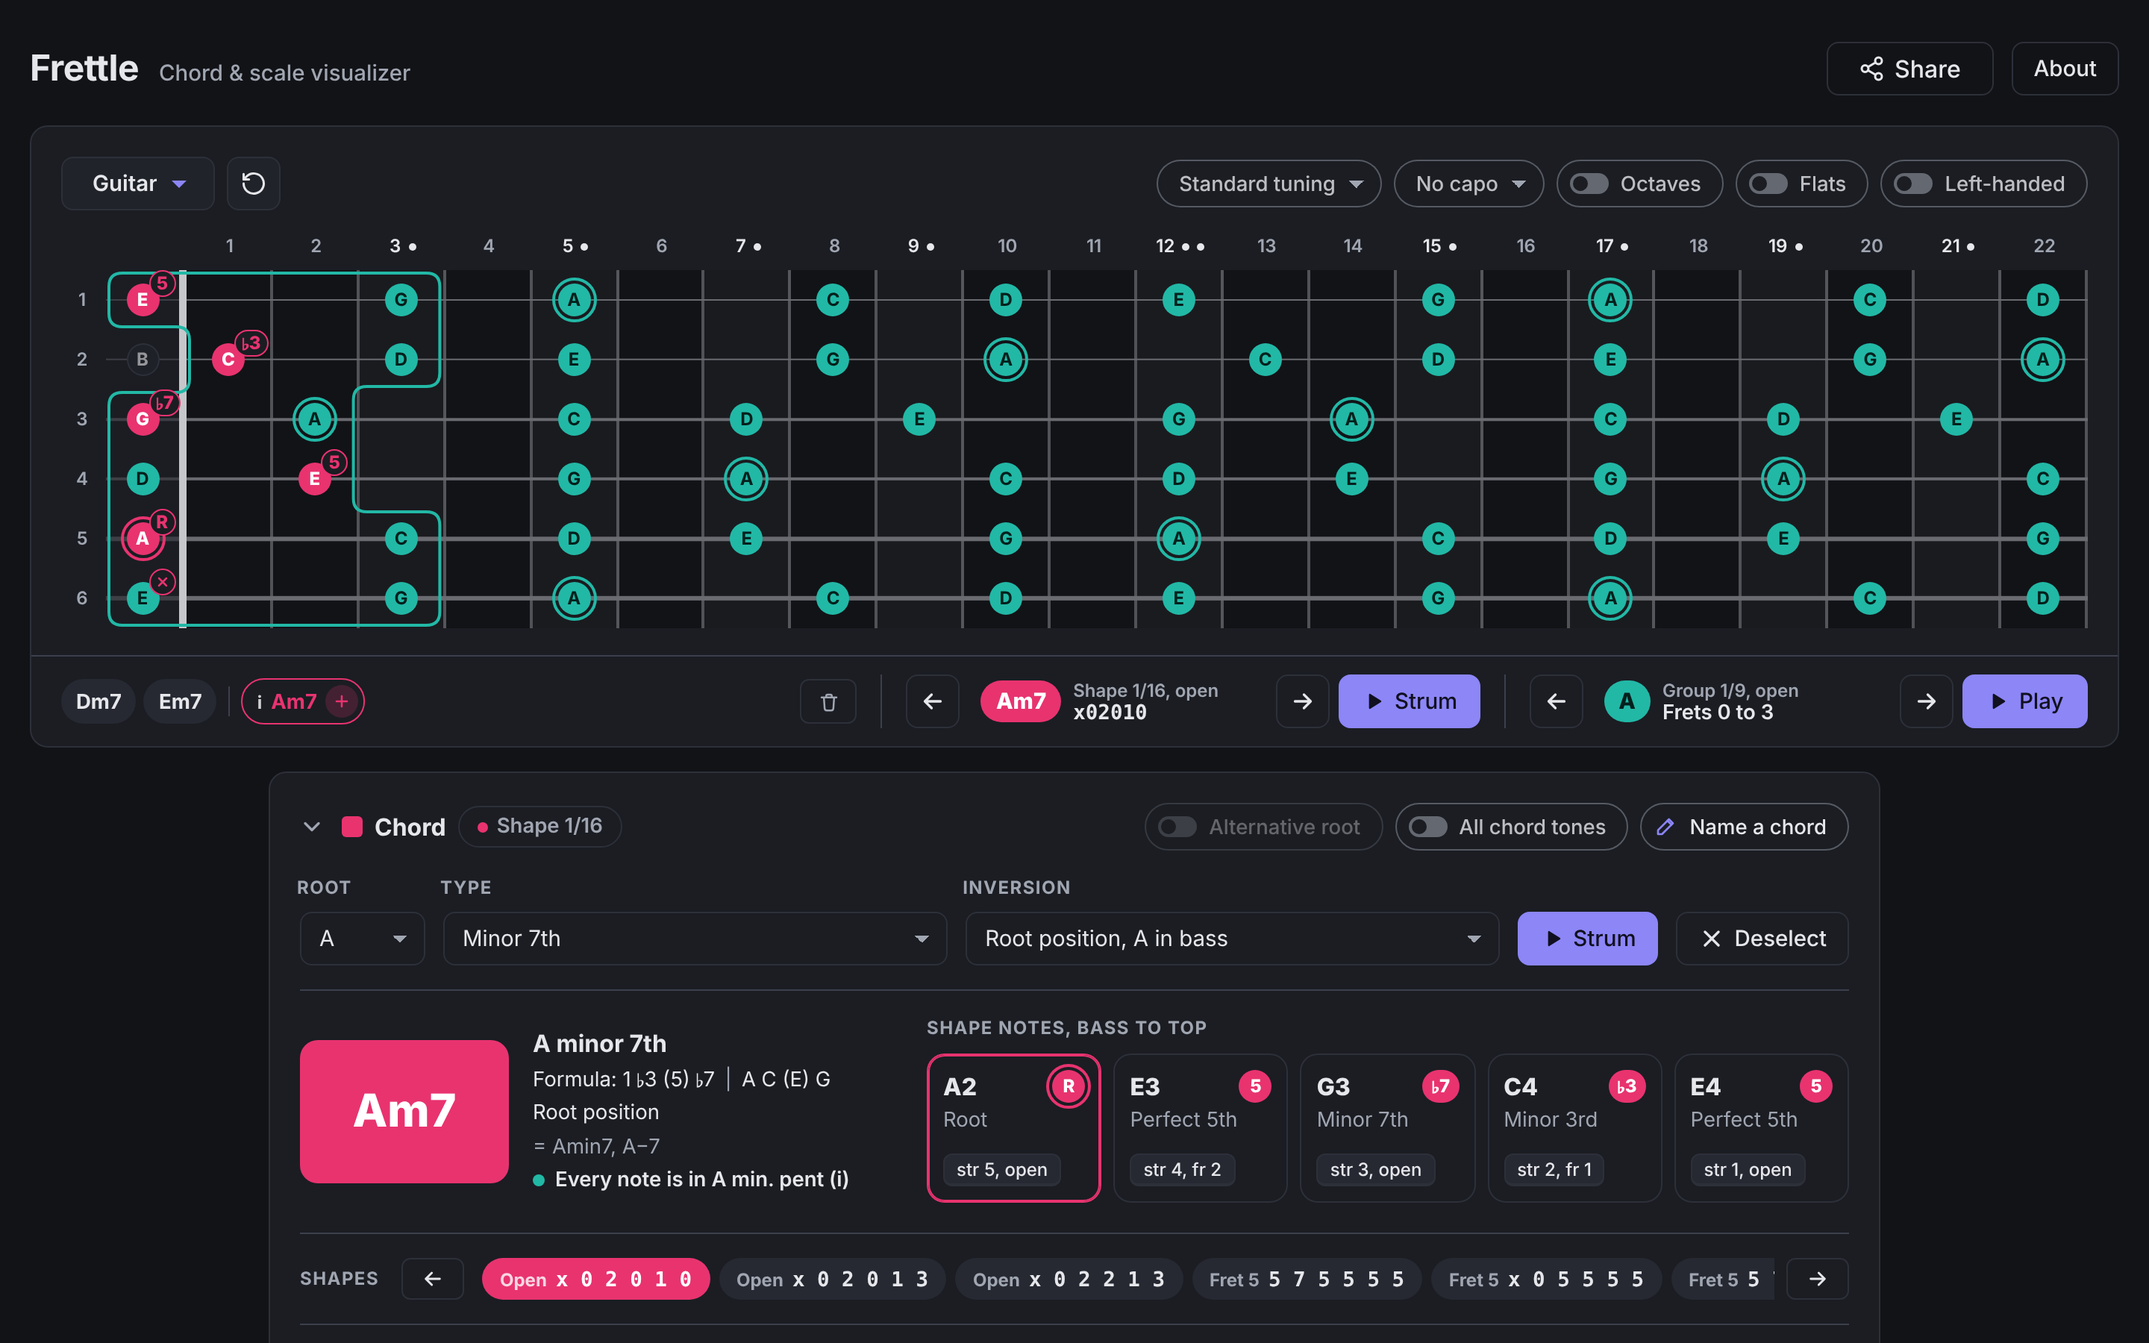
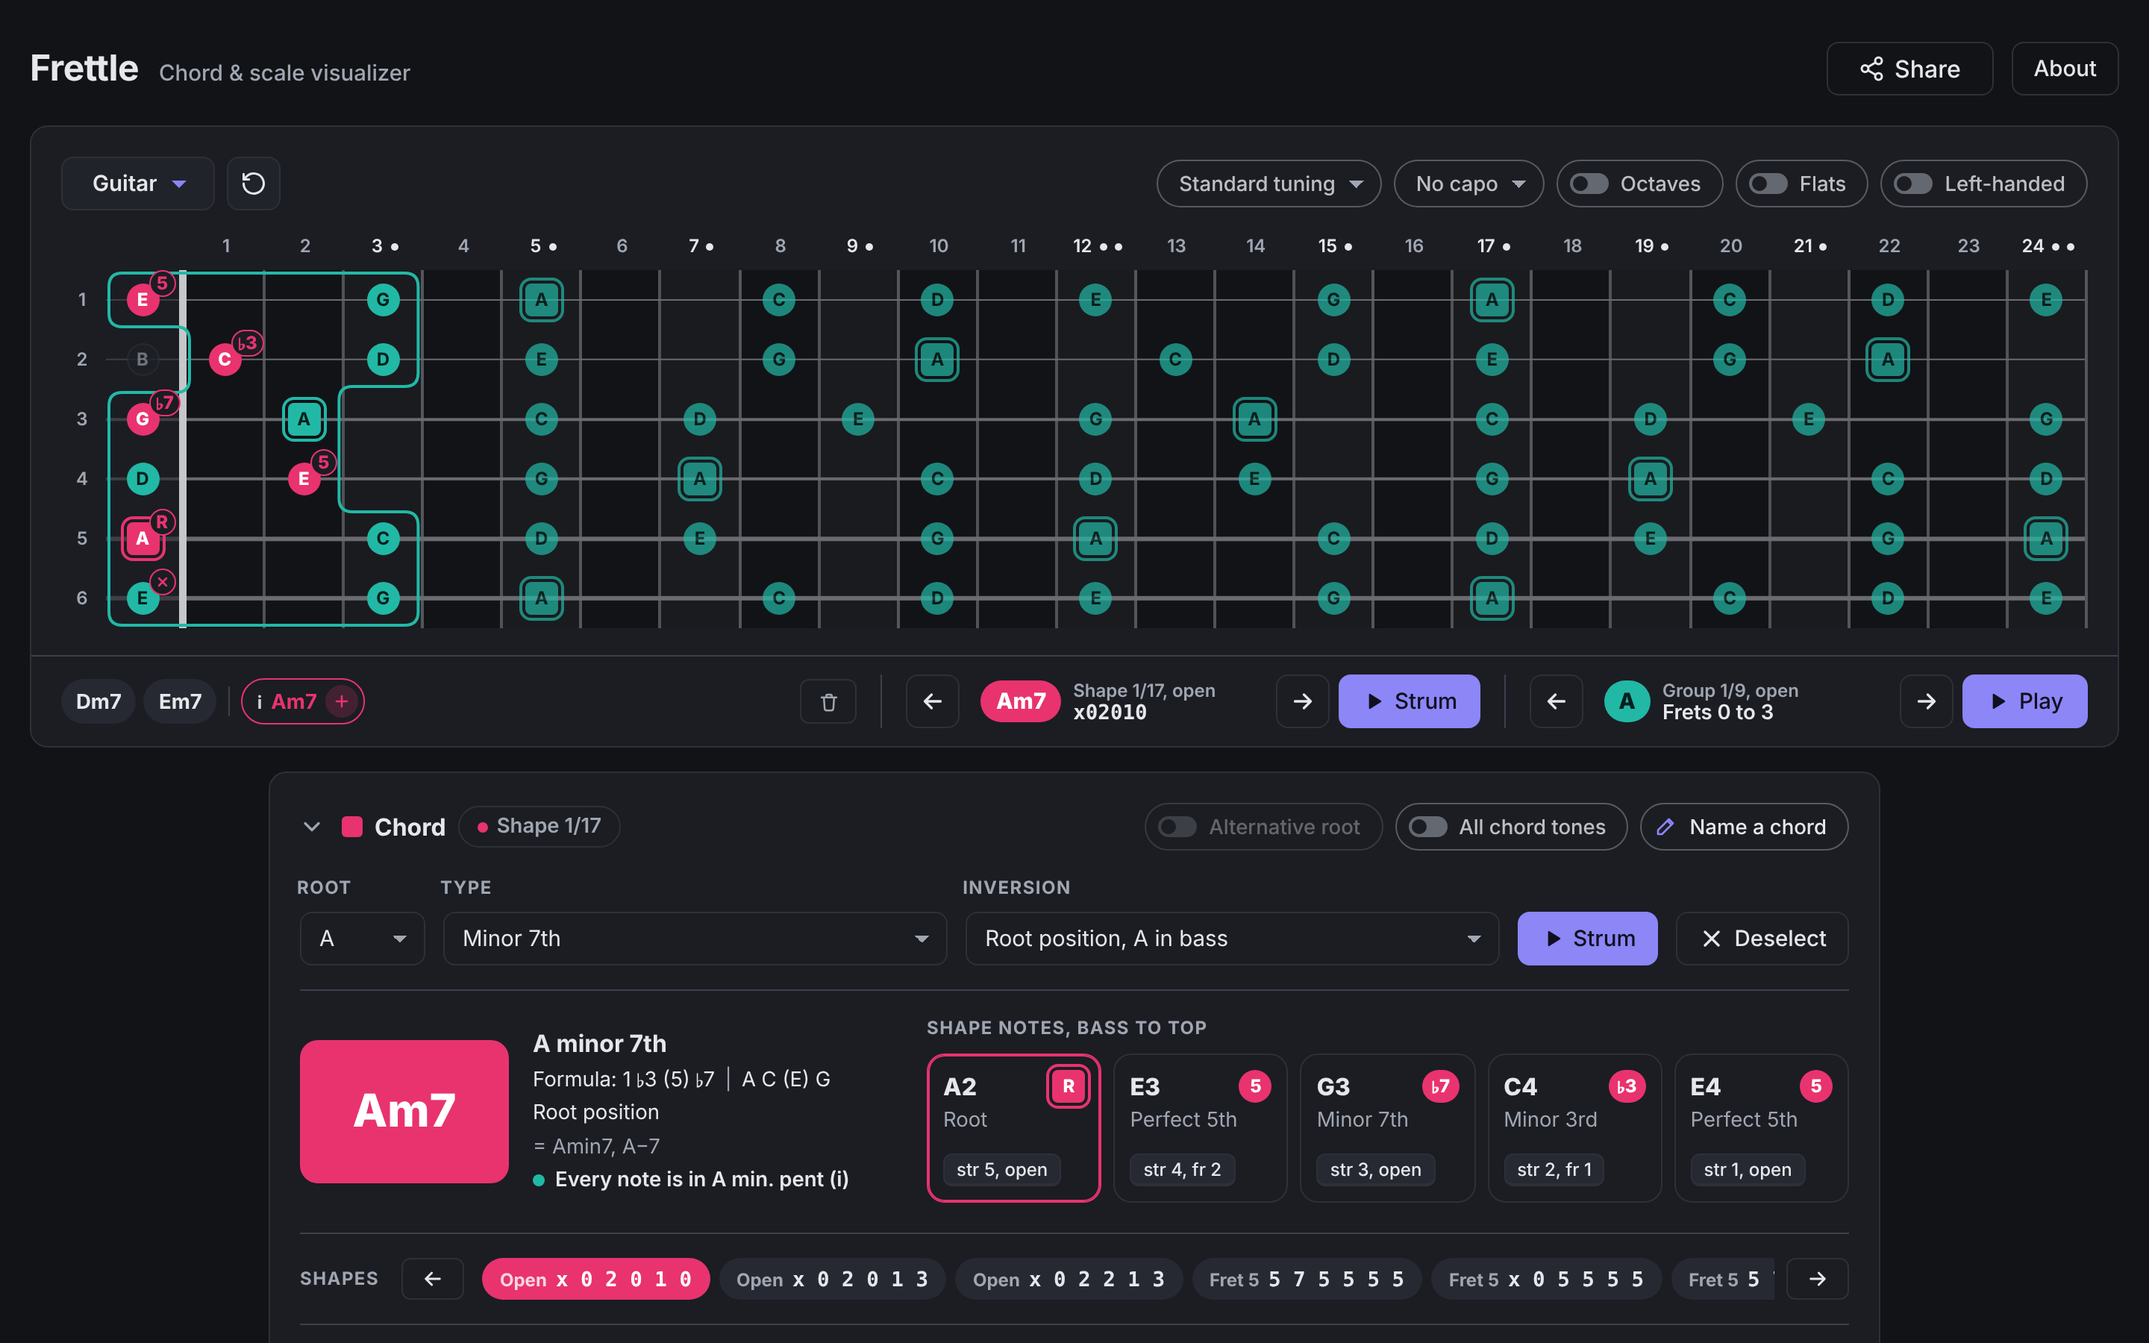
feat: use rounded squares to emphasize roots + dim notes outside group + fixed empty neck scrollbar + push guitar/bass/mandolin to 24 frets + octave mandola tuning

diff --git a/web/script.js b/web/script.js
@@ -44,15 +44,15 @@ const SHARP_NAMES = ['C', 'C♯', 'D', 'D♯', 'E', 'F', 'F♯', 'G', 'G♯', 'A
 const PIANO_LOW = 21;
 const PIANO_KEYS = 88;
 const INSTRUMENTS = [
-  { id: 'guitar', family: 'Guitar', name: 'Guitar', short: 'Guitar', strings: [40, 45, 50, 55, 59, 64], frets: 22 },
+  { id: 'guitar', family: 'Guitar', name: 'Guitar', short: 'Guitar', strings: [40, 45, 50, 55, 59, 64], frets: 24 },
   { id: 'guitar7', family: 'Guitar', name: '7-string Guitar', short: '7-string', strings: [35, 40, 45, 50, 55, 59, 64], frets: 24 },
-  { id: 'bass', family: 'Bass', name: 'Bass', short: 'Bass', strings: [28, 33, 38, 43], frets: 20 },
+  { id: 'bass', family: 'Bass', name: 'Bass', short: 'Bass', strings: [28, 33, 38, 43], frets: 24 },
   { id: 'bass5', family: 'Bass', name: '5-string Bass', short: '5-string', strings: [23, 28, 33, 38, 43], frets: 24 },
   { id: 'ukulele', family: 'Ukulele', name: 'Ukulele', short: 'Ukulele', strings: [67, 60, 64, 69], frets: 18, smallFrets: true },
   { id: 'baritone', family: 'Ukulele', name: 'Baritone Ukulele', short: 'Baritone', strings: [50, 55, 59, 64], frets: 18, smallFrets: true },
   { id: 'piano', family: 'Piano', name: 'Piano', short: 'Piano', strings: [], frets: 0, piano: true },
-  { id: 'mandolin', family: 'Mandolin', name: 'Mandolin', short: 'Mandolin', strings: [55, 62, 69, 76], frets: 20, span: 5, smallFrets: true, fifths: true },
-  { id: 'mandola', family: 'Mandolin', name: 'Mandola', short: 'Mandola', strings: [48, 55, 62, 69], frets: 20, span: 5, smallFrets: true, fifths: true },
+  { id: 'mandolin', family: 'Mandolin', name: 'Mandolin', short: 'Mandolin', strings: [55, 62, 69, 76], frets: 24, span: 5, smallFrets: true, fifths: true },
+  { id: 'mandola', family: 'Mandolin', name: 'Mandola', short: 'Mandola', strings: [48, 55, 62, 69], frets: 24, span: 5, smallFrets: true, fifths: true },
   { id: 'banjo', family: 'Banjo', name: 'Banjo', short: 'Banjo', strings: [67, 50, 55, 59, 62], starts: [5, 0, 0, 0, 0], frets: 22,
     dots: { single: [3, 5, 7, 10, 15, 17, 19, 22], double: [12] } },
 ];
@@ -79,6 +79,10 @@ const TUNINGS = {
     { id: 'open-d', name: 'Open D', strings: [38, 45, 50, 54, 57, 62] },
     { id: 'open-e', name: 'Open E', strings: [40, 47, 52, 56, 59, 64] },
     { id: 'open-c', name: 'Open C', strings: [36, 43, 48, 55, 60, 64] },
+  ],
+  mandola: [
+    { id: 'standard', name: 'Standard', strings: [48, 55, 62, 69] },
+    { id: 'octave', name: 'Octave', strings: [43, 50, 57, 64] },   // the octave mandola, G2 D3 A3 E4: a mandolin's notes, an octave down
   ],
   ukulele: [
     { id: 'standard', name: 'Standard (high G)', strings: [67, 60, 64, 69] },
@@ -5534,7 +5538,7 @@ function renderNeck(ch, sc) {
     labelAt = (s) => `grid-row:1;grid-column:${s + 2}`;
     capoAt = `grid-row:${c + 2};grid-column:${short + 2} / span ${n - short}`;
   } else {
-    els.neck.style.gridTemplateColumns = `var(--label-w) var(--open-w) repeat(${N}, minmax(var(--cell-w), 1fr))`;
+    els.neck.style.gridTemplateColumns = `var(--label-w) var(--open-w) repeat(${N}, minmax(var(--cell-min, var(--cell-w)), 1fr))`;   // (--cell-min: see fitScroll)
     cellAt = (s, f) => `grid-row:${n - s + 1};grid-column:${f + 2}`;
     rulerAt = (f) => `grid-row:1;grid-column:${f + 2}`;
     labelAt = (s) => `grid-row:${n - s + 1};grid-column:1`;
@@ -5577,6 +5581,10 @@ function renderNeck(ch, sc) {
   }
   ui.groups = groups;
   ui.group = pickGroup(groups);
+  // The group shown: its cells (string:fret); every other note but the
+  // chord's a little dimmer
+  const grouped = new Set();
+  for (const { s, a, b } of groups[ui.group] ? groups[ui.group].bars : []) for (let f = a; f <= b; f++) grouped.add(`${s}:${f}`);
 
   // One octave number per shaded band, on its first cell you can play: the
   // lowest-listed string in the band, at its lowest fret not behind the capo
@@ -5691,6 +5699,10 @@ function renderNeck(ch, sc) {
         // spike): the strings' notes are always shown
         cls += onlyScale && f !== nut(s) ? ' plain out' : sc ? ' plain off' : ' plain';
       }
+      // (the chord's own notes never; a note not in the scale is never one of
+      // the group's, even within its outline; a string the shape does not
+      // play: its note, not its ×, see .ungrouped)
+      if (grouped.size && !/ (chord|ghost)\b/.test(cls) && (cls.includes(' scale') ? !grouped.has(key) : cls.includes(' off') || cls.includes(' named'))) cls += ' ungrouped';
       const text = noteText(n);
       let title = `${pitchText(midi, n)}${deg ? ` (${degreeName(deg)})` : ''}, ${where}`;
       if (cls.includes(' off-key')) title += `, not in ${scaleInText(sc)}`;
@@ -5701,7 +5713,7 @@ function renderNeck(ch, sc) {
       }
       const octave = octaveOf(s, f);
       const cellCls = `cell ${f === 0 ? 'open' : 'fret'}${mark ? ' mark' : ''}${octave % 2 ? ' o-alt' : ''}` +
-        `${f < nut(s) ? ' behind' : ''}${c && f === nut(s) ? ' capo' : ''}${start && f === start ? ' string-start' : ''}`;
+        `${f < nut(s) ? ' behind' : ''}${c && f === nut(s) ? ' capo' : ''}${start && f === start ? ' string-start' : ''}${f === N ? ' end' : ''}`;
       const inner = cls.includes(' mute') && !cls.includes(' named') ? MUTE_ICON : tx(text);
       if (cls.includes(' named')) badge = MUTE_BADGE;
       const octTag = octaveLabels.has(key) ? `<span class="oct" title="Octave ${octave}">${tx(String(octave))}</span>` : '';
@@ -5735,6 +5747,7 @@ function renderNeck(ch, sc) {
   html.push(stripHtml(vertical, n, c, short, starts));
   els.neck.innerHTML = html.join('');
   drawGroups();
+  fitScroll();
   placeStrip();
 }
 
@@ -5799,6 +5812,36 @@ function renderPiano(ch, sc) {
   }
   els.neck.style.setProperty('--whites', white);
   els.neck.innerHTML = html.join('');
+  fitScroll();
+}
+
+/* Wide screens: a neck (or keyboard) only a little wider than its panel
+   would scroll a few pixels, which looks like a mistake. It is made wider
+   then, its frets (or white keys) a little wider, the notes as they are,
+   to scroll at least SCROLL_MIN: a scroll that shows something. Measured
+   at its own width first (each fret at least --cell-w, each white key
+   36px), from the frets' (keys') widths as they are, whatever makes it
+   scroll. On every draw and whenever the neck or its panel changes size. */
+const SCROLL_MIN = 102;   // px: two frets (2 × --cell-w)
+function fitScroll() {
+  const neck = els.neck;
+  const scroller = neck.parentElement;
+  neck.style.removeProperty('--cell-min');
+  neck.style.removeProperty('--wk-min');
+  if (!neck.classList.contains('horizontal')) return;
+  const over = scroller.scrollWidth - scroller.clientWidth;
+  if (over <= 0 || over >= SCROLL_MIN) return;
+  if (neck.classList.contains('piano')) {
+    const whites = neck.querySelectorAll('.key.white');
+    const wk = whites[0].getBoundingClientRect().width;
+    neck.style.setProperty('--wk-min', `${wk + (SCROLL_MIN - over) / whites.length}px`);
+  } else {
+    const cells = neck.querySelectorAll('.cell.fret:not(.strip-cell)');
+    const last = cells[cells.length - 1];   // (the last fret's: its number, the frets' count; 1fr each, so all as wide)
+    if (!last) return;
+    const cell = last.getBoundingClientRect().width;
+    neck.style.setProperty('--cell-min', `${cell + (SCROLL_MIN - over) / Number(last.dataset.f)}px`);
+  }
 }
 
 
@@ -5872,8 +5915,8 @@ function drawGroups() {
   if (!layer) return;
   const group = (ui.groups || [])[ui.group];
   const box = els.neck.getBoundingClientRect();
-  layer.setAttribute('width', box.width);
-  layer.setAttribute('height', box.height);
+  // (as big as the neck by its style, never a fraction of a pixel past it: no
+  // scroll of its own, see fitScroll)
   layer.setAttribute('viewBox', `0 0 ${box.width} ${box.height}`);
   if (!group) { layer.innerHTML = ''; return; }
 
@@ -6621,7 +6664,8 @@ function init() {
   if (wideMedia.addEventListener) wideMedia.addEventListener('change', relayout);
   else wideMedia.addListener(relayout);
   if (window.ResizeObserver) {
-    new ResizeObserver(() => { drawGroups(); queueStrip(); }).observe(els.neck);   // keep group outlines on their cells
+    new ResizeObserver(() => { drawGroups(); fitScroll(); queueStrip(); }).observe(els.neck);   // keep group outlines on their cells
+    new ResizeObserver(() => fitScroll()).observe(els.neck.parentElement);   // (the panel narrower or wider: see fitScroll)
   }
   // The strip follows the page (phones) and the neck's own scroll (wide screens)
   window.addEventListener('scroll', queueStrip, { passive: true });

diff --git a/web/styles.css b/web/styles.css
@@ -70,6 +70,7 @@
   --r-lg: 12px;
   --r-xl: 18px;
   --r-pill: 999px;
+  --r-root: 4px;         /* a root's note: a rounded square, every other note a round pill */
   --control-h: 42px;     /* touch-sized on phones */
   --root-w: 84px;        /* the Root menus */
   --chip-h: 32px;
@@ -81,7 +82,7 @@
   --label-w: 28px;       /* fret numbers column */
   --row-h: 42px;         /* one fret: room for a root's ring inside a group outline */
   --ruler-row: 24px;     /* string numbers row */
-  --cell-w: 46px;        /* horizontal neck only */
+  --cell-w: 51px;        /* a fret's least width, horizontal neck only (see fitScroll) */
   --open-w: 54px;
   --scroll-gap: 10px;    /* space between scrolling content and its scrollbar */
   --fret-wire: color-mix(in srgb, var(--pk-grey) 50%, transparent);
@@ -807,6 +808,7 @@ button, a { scroll-margin: 6px; }
 /* Vertical: strings go down, fret wires and the nut run across */
 .neck.vertical .cell::before { top: 0; bottom: 0; left: 50%; width: var(--sw, 1px); transform: translateX(-50%); }
 .neck.vertical .cell.fret:not(.string-start)::before { bottom: -2px; }   /* over its fret wire: strings in front of the frets */
+.neck.vertical .cell.fret.end:not(.string-start)::before { bottom: 0; }   /* (the last fret: ending at its wire, as across) */
 .neck.vertical .cell.fret { border-bottom: 2px solid var(--fret-wire); }
 .neck.vertical .cell.open { border-bottom: 5px solid var(--nut); }
 .neck.vertical .ruler { justify-content: flex-end; padding-inline-end: 8px; }
@@ -816,6 +818,7 @@ button, a { scroll-margin: 6px; }
 /* Horizontal: strings go across, fret wires and the nut run down */
 .neck.horizontal .cell::before { left: 0; right: 0; top: 50%; height: var(--sw, 1px); transform: translateY(-50%); }
 .neck.horizontal .cell.fret:not(.string-start)::before { inset-inline-end: -2px; }   /* (as across) */
+.neck.horizontal .cell.fret.end:not(.string-start)::before { inset-inline-end: 0; }   /* (the last fret: the string ends at its wire, not past the neck's end, which would scroll it a pixel or two) */
 .neck.horizontal .cell.fret { border-inline-end: 2px solid var(--fret-wire); }
 .neck.horizontal .cell.open { border-inline-end: 5px solid var(--nut); }
 .neck.horizontal .ruler { align-self: start; height: 24px; }
@@ -887,7 +890,8 @@ button, a { scroll-margin: 6px; }
 
 /* Note pills. Every note is shown at full strength. Scale notes are teal,
    chord-shape notes pink with their interval, other chord tones (optional)
-   pink outlines. A ring around a pill always means "root". */
+   pink outlines. A rounded square with a ring around it always means
+   "root" (on the neck, the piano, the chord's notes and the scale's). */
 .note {
   position: relative;
   z-index: 2;
@@ -905,10 +909,11 @@ button, a { scroll-margin: 6px; }
   white-space: nowrap;
 }
 .note.scale { background: var(--scale); color: var(--scale-text); box-shadow: none; }
-.note.scale-root { outline: 2px solid var(--scale); outline-offset: 2px; }
+.note.scale-root { border-radius: var(--r-root); outline: 2px solid var(--scale); outline-offset: 2px; }
 .note.ghost { background: var(--bg); color: var(--chord); box-shadow: inset 0 0 0 1px color-mix(in srgb, var(--chord) 55%, transparent); }
 .note.chord { background: var(--chord); color: var(--chord-text); box-shadow: none; font-weight: 800; }
-.note.chord.root { outline: 2px solid var(--chord); outline-offset: 2px; }
+.note.chord.root { border-radius: var(--r-root); outline: 2px solid var(--chord); outline-offset: 2px; }
+.note.ghost.root { border-radius: var(--r-root); }   /* (another chord tone: square too, without the ring of the shape's own) */
 /* Chord notes show their name; the interval (R, 3, 5, ♭7…) sits in a small
    badge on the pill's top-right corner, held by its left end: a longer one
    (♭♭7, ♯11) grows away from the note rather than over it */
@@ -951,6 +956,24 @@ button, a { scroll-margin: 6px; }
 .note.mute.named.scale { background: var(--scale); color: var(--scale-text); box-shadow: none; }   /* (a string not played, its open note in the scale: a scale note, with its ×) */
 .note.mute.named.ghost { background: var(--bg); color: var(--chord); box-shadow: inset 0 0 0 1px color-mix(in srgb, var(--chord) 55%, transparent); }   /* (... a chord tone, All chord tones on: as the others, see .note.ghost) */
 .note.out { visibility: hidden; }
+/* With a scale group shown: every note not in it a little dimmer (the
+   scale's past it, and those not in the scale), so the group stands out;
+   the chord's notes stay as they are. A string the shape does not play:
+   its note dimmer (its fill, text and edge at 70%, as the others' 0.7),
+   its pink × as it is */
+.note.ungrouped { opacity: 0.7; }
+.note.mute.named.ungrouped {
+  opacity: 1;
+  background: color-mix(in srgb, color-mix(in srgb, var(--kbd-bg) 65%, var(--bg)) 70%, transparent);
+  color: color-mix(in srgb, color-mix(in srgb, var(--text) 62%, var(--bg)) 70%, transparent);
+  box-shadow: inset 0 0 0 1px color-mix(in srgb, var(--border) 70%, transparent);
+}
+.note.mute.named.scale.ungrouped {
+  background: color-mix(in srgb, var(--scale) 70%, transparent);
+  color: color-mix(in srgb, var(--scale-text) 70%, transparent);
+  box-shadow: none;
+  outline-color: color-mix(in srgb, var(--scale) 70%, transparent);
+}
 .note.out.peek { visibility: visible; animation: peek 1400ms ease-out forwards; }   /* shown a moment, then a short fade */
 @keyframes peek {
   0% { opacity: 1; transform: scale(1.18); }
@@ -1003,7 +1026,7 @@ button, a { scroll-margin: 6px; }
 .oct-label.mid { color: var(--text); }   /* middle C's octave */
 /* Wide screens: the keys across */
 .neck.piano.horizontal {
-  --wk: max(36px, calc(100cqw / var(--whites)));   /* a white key's width: 36px (room for two neighbours' notes, a root's ring round one), more only where the panel is wider than the 52 keys need */
+  --wk: max(var(--wk-min, 36px), calc(100cqw / var(--whites)));   /* a white key's width: 36px (room for two neighbours' notes, a root's ring round one), more only where the panel is wider than the 52 keys need (or a little more to scroll more than a few pixels: --wk-min, see fitScroll) */
   --bk: calc(var(--wk) * 0.6);
   --kl: 170px;  /* a white key's length */
   width: calc(var(--whites) * var(--wk));
@@ -1125,6 +1148,8 @@ body.piano #tglScaleGroups { display: none; }
   position: absolute;
   left: 0;
   top: 0;
+  width: 100%;    /* the neck's size (its viewBox: the same, in pixels, see drawGroups) */
+  height: 100%;
   z-index: 1;
   overflow: visible;
   pointer-events: none;
@@ -1263,7 +1288,7 @@ body.piano #tglScaleGroups { display: none; }
 }
 .np-loc { grid-column: 1 / -1; align-self: end; }
 .np-note.root { border-color: var(--chord); box-shadow: inset 0 0 0 1px var(--chord); }
-.np-note.root .np-deg { outline: 2px solid var(--chord); outline-offset: 2px; }
+.np-note.root .np-deg { border-radius: var(--r-root); outline: 2px solid var(--chord); outline-offset: 2px; }
 .np-note.off-key .np-deg { background: var(--warn); color: var(--pk-black); }
 .np-note.root.off-key .np-deg { outline-color: var(--warn); }
 
@@ -1345,18 +1370,19 @@ body.piano #tglScaleGroups { display: none; }
   font: 700 var(--fs-sm)/1 var(--font);
   cursor: pointer;
 }
-.scale-note.root { outline: 2px solid var(--scale); outline-offset: 2px; margin-right: 2px; }
+.scale-note.root { border-radius: var(--r-root); outline: 2px solid var(--scale); outline-offset: 2px; margin-right: 2px; }
 /* The root keeps its own teal ring when it has the focus: the focus ring is
-   drawn around it, as one more ring */
+   drawn around it, as one more ring (as square: its corners as rounded as
+   the ring's, 8px out) */
 .scale-note.root:focus-visible::before {
   content: "";
   position: absolute;
   inset: -8px;
   border: 2px solid var(--accent);
-  border-radius: var(--r-pill);
+  border-radius: calc(var(--r-root) + 8px);
   pointer-events: none;
 }
-.scale-note.octave { background: transparent; color: var(--scale); box-shadow: inset 0 0 0 2px var(--scale); }
+.scale-note.octave { border-radius: var(--r-root); background: transparent; color: var(--scale); box-shadow: inset 0 0 0 2px var(--scale); }   /* (the root again: square too) */
 /* Each note's interval, a badge on its corner like the chord's on the neck */
 .scale-deg {
   position: absolute;
